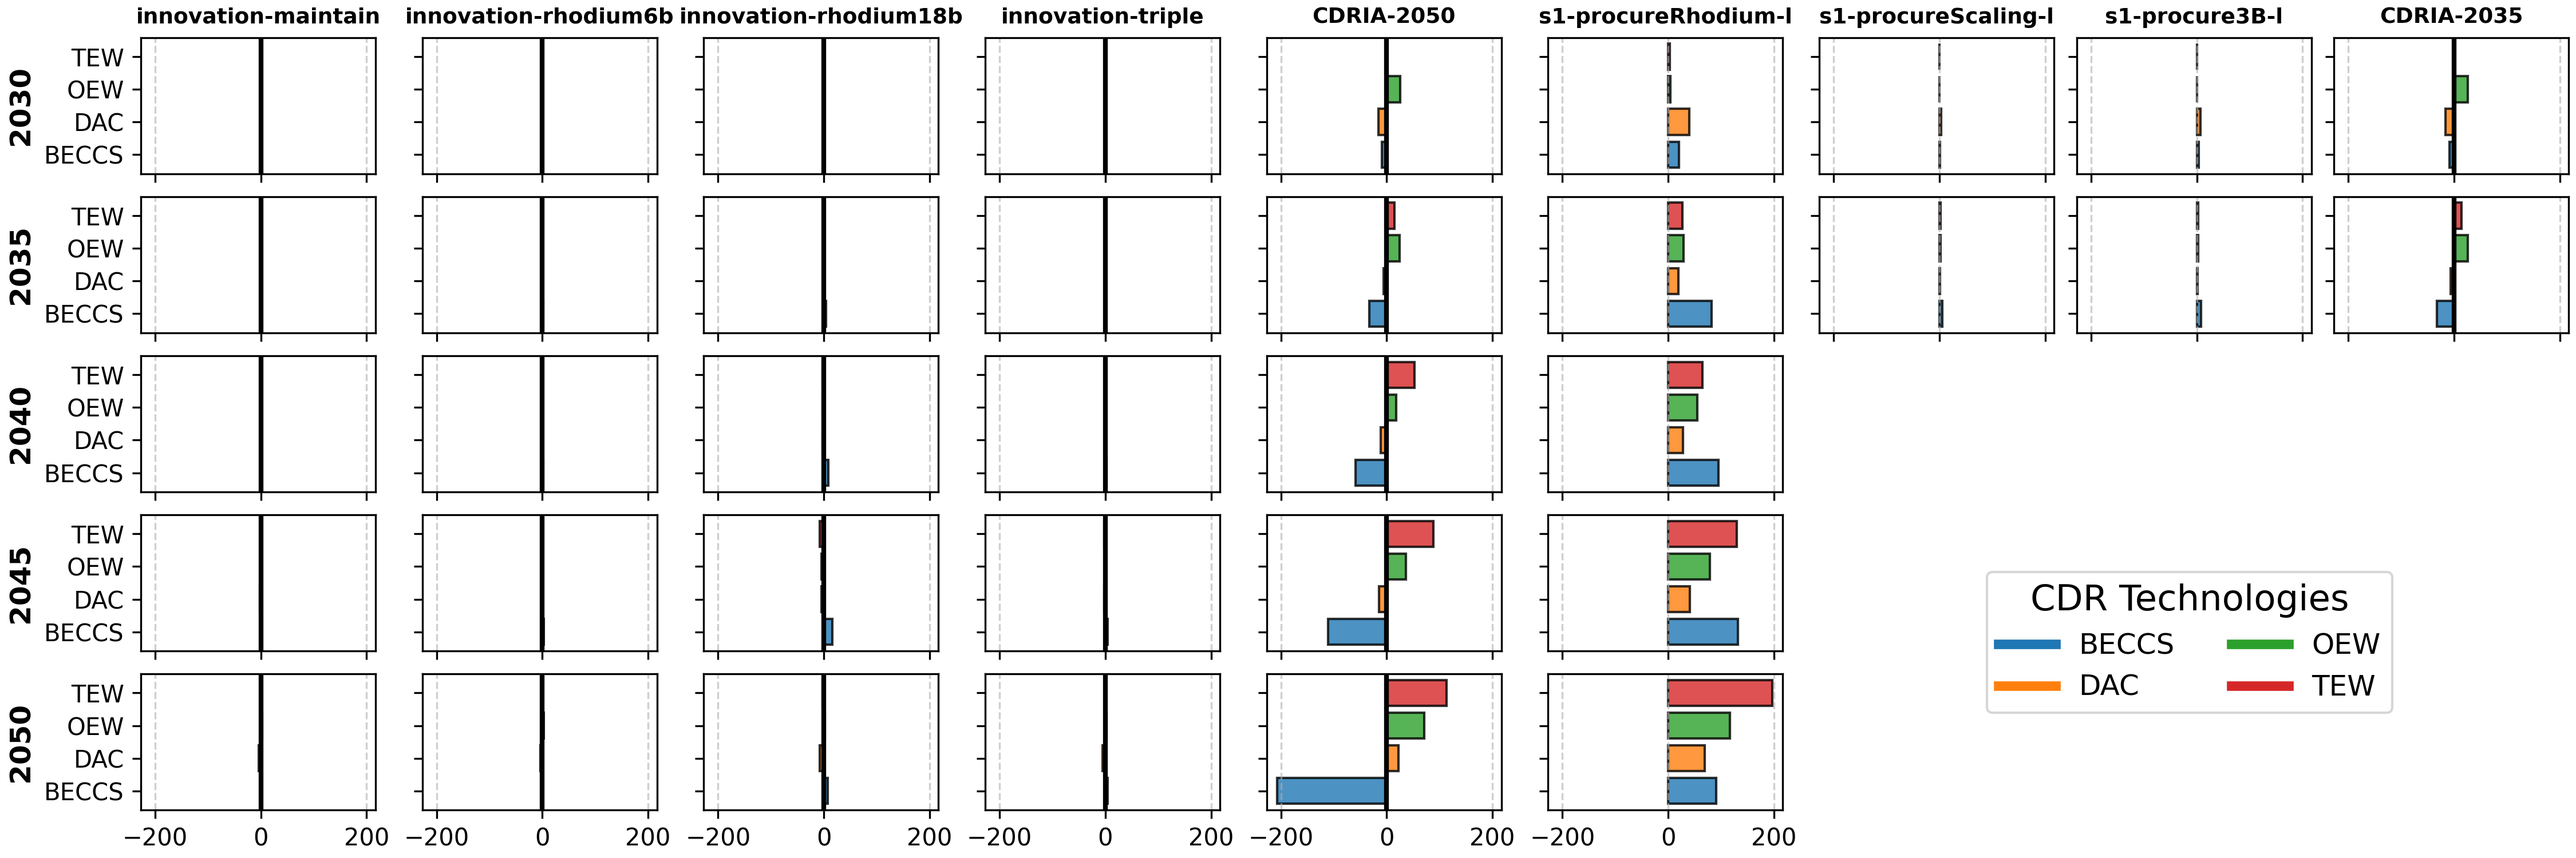
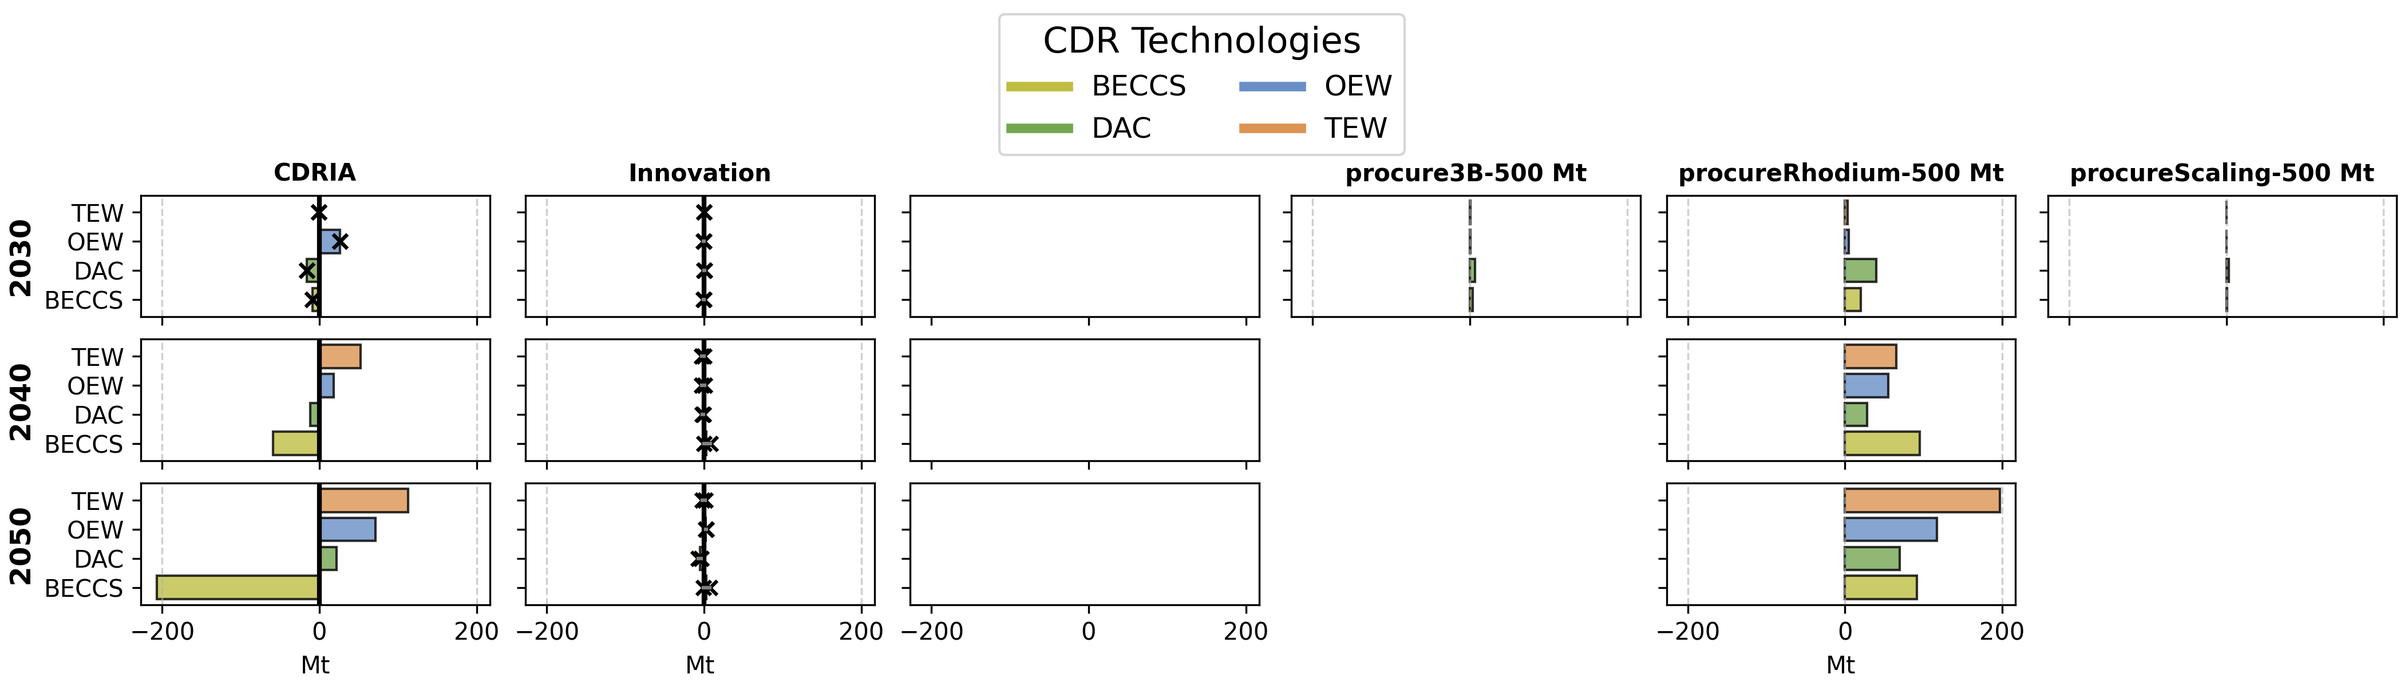
update figure 3 plots

diff --git a/supplementary_figures.py b/supplementary_figures.py
@@ -7,6 +7,7 @@ import numpy as np
 import matplotlib.pyplot as plt
 from matplotlib.lines import Line2D
 import matplotlib.gridspec as gridspec
+from scipy import stats
 
 
 def main(config_fname, reference_year):
@@ -17,8 +18,8 @@ def main(config_fname, reference_year):
     config_fname = config_fname.replace("_", "/")
     os.makedirs("./data/data_analysis/images/" + config_fname + "/", exist_ok=True)
     # many methods are commented out, but to run them just uncomment and run
-    marginal_supply()
-    # tech_neutrality()
+    # marginal_supply()
+    tech_neutrality()
     # compare_policy_costs("CDRIA-2035_high", "45Q-2040_high")
     # CAGR(config_fname, "2050")
     # land_allocation(config_fname, "2050")
@@ -98,7 +99,8 @@ def npv_breakdown():
     gs = gridspec.GridSpec(n_rows, n_cols, height_ratios=row_height_ratios)
 
     # set some values for the plotting
-    cost_categories = ['Deadweight Loss', 'CDR Market', 'Subsidy', 'Procurement Costs', 'Investment In R&D']  # CDR['cost_type'].unique()
+    cost_categories = ['Deadweight Loss', 'CDR Market', 'Subsidy', 'Procurement Costs',
+                       'Investment In R&D']  # CDR['cost_type'].unique()
     main_ax = None  # Placeholder to hold the first axis for sharing
     colors = ["#0047BB", "#00B5E2", "#c22a90", "#00AE8D", "#8AB7E9"]
 
@@ -283,8 +285,9 @@ def marginal_supply():
         ax.axhline(0, color='black', linewidth=1)
         ax.set_xticks(x_pos)
         # Rename all the comparisons to make for pretty labeling
-        valid_comps = [i.replace("s1-", "").replace("nzn", "100 Mt").replace("low", "500 Mt").replace("high", "1500 Mt").
-                       replace("excess", "2400 Mt").replace("4gt", "4100 Mt") for i in valid_comps]
+        valid_comps = [
+            i.replace("s1-", "").replace("nzn", "100 Mt").replace("low", "500 Mt").replace("high", "1500 Mt").
+            replace("excess", "2400 Mt").replace("4gt", "4100 Mt") for i in valid_comps]
         ax.set_xticklabels(valid_comps, rotation=30, ha='right', fontsize=11)
         ax.set_ylabel("Normalized Delta")
         ax.grid(axis='y', linestyle=':', alpha=0.6)
@@ -351,8 +354,8 @@ def tech_neutrality():
     # calculate spend and supply and which technology it is applied to
     for i in c.GCAMConstants.plotting_x:
         supply_sums = CDR.groupby(['scenario', "baseline"])[str(i) + "_supply"].transform(lambda x: x.abs().sum())
-        CDR[str(i)] = CDR[
-                          str(i) + "_supply"] / supply_sums  # what is the impact of policy on supply of CDR by technology compared to baseline?
+        CDR[str(i)] = CDR[str(i) + "_supply"] / supply_sums
+        # what is the impact of policy on supply of CDR by technology compared to baseline?
 
     # mask data
     # no 2025 data
@@ -390,58 +393,116 @@ def tech_neutrality():
     CDR.loc[CDR['scenario'] == 's1-procure3B-l', '2050_supply'] = np.nan
     CDR.loc[CDR['scenario'] == 's1-procure3B-h', '2050_supply'] = np.nan
 
+    # group by policy type
+    # set new column as policy type
+    CI_data = pd.DataFrame()
+    CDR["%Label"] = CDR.apply(lambda row: "Procurement" if "procure" in row['scenario'] else "Innovation" if
+                    "innovation" in row['scenario'] else "CDRIA", axis=1)
+    CDR["MtLabel"] = CDR.apply(lambda row: row['scenario'] if "procure" in row['scenario'] else "Innovation" if
+    "innovation" in row['scenario'] else "CDRIA", axis=1) # do not want to aggregate procurement scenarios by Mt basis because CI would be nonsense
+    for bl in CDR["baseline"].unique():
+        baseline = CDR[CDR["baseline"] == bl]
+        for product in baseline["product"].unique():
+            technology = baseline[baseline["product"] == product].copy(
+                deep=True)  # filter data by baseline and product before doing CI work
+            for year in c.GCAMConstants.plotting_x:
+                percent = technology.groupby('%Label')[str(year)].apply(get_min_max).unstack().reset_index(names="Policy Type")
+                percent["baseline"] = bl
+                percent["product"] = product
+                percent["year"] = str(year)
+                MT = technology.groupby('MtLabel')[str(year) + "_supply"].apply(get_min_max).unstack().reset_index(names="Policy Type")
+                MT["baseline"] = bl
+                MT["product"] = product
+                MT["year"] = str(year)+"_supply"
+                CI_data = pd.concat([CI_data, percent, MT])
+
     # iterate through baselines and supply type
     for baseline in ["low", "high"]:
-        for suffix in ["", "_supply"]:
-            CDR_baseline = CDR[CDR["baseline"] == baseline]
-            years = ['2030' + suffix, '2035' + suffix, '2040' + suffix, '2045' + suffix, '2050' + suffix]
-            scenarios = CDR_baseline['scenario'].unique()
+        for suffix in ["_supply", ""]:
+            CDR_baseline = CI_data[CI_data["baseline"] == baseline]
+            years = ['2030' + suffix, '2040' + suffix, '2050' + suffix]
+            scenarios = CDR_baseline['Policy Type'].unique()
             products = CDR_baseline['product'].unique()
 
             # set up the grid: Rows = Scenarios, Columns = Years
-            fig, axes = plt.subplots(5, len(scenarios), figsize=(15, 5), sharey=True, sharex=True, layout="constrained")
+            if suffix == "":
+                fig, axes = plt.subplots(3, 3, figsize=(14, 4), sharey=True, sharex=True, layout="constrained")
+            else:
+                fig, axes = plt.subplots(3, len(scenarios), figsize=(14, 4), sharey=True, sharex=True, layout="constrained")
 
-            colors = ['#1f77b4', '#ff7f0e', '#2ca02c', '#d62728']
+            colors = ["#BFBE43", "#74A751", "#698FC6", "#DD9452"]
             for row_idx, scenario_name in enumerate(scenarios):
-                scenario_df = CDR_baseline[CDR_baseline['scenario'] == scenario_name]
+                if not (suffix == "" and "s1-" in scenario_name):
+                    if not (suffix=="_supply" and scenario_name == "Procurement"):
+                        scenario_df = CDR_baseline[CDR_baseline['Policy Type'] == scenario_name]
 
-                for col_idx, year in enumerate(years):
-                    ax = axes[col_idx, row_idx] if len(scenarios) > 1 else axes[col_idx]
+                        # reformat the table to have years as columns
+                        scenario_df_mean = scenario_df.pivot(index=['product', "baseline", "Policy Type"], columns='year', values='mean').reset_index()
+                        scenario_df_low = scenario_df.pivot(index=['product', "baseline", "Policy Type"], columns='year',
+                                                             values='minimum').reset_index()
+                        scenario_df_high = scenario_df.pivot(index=['product', "baseline", "Policy Type"], columns='year',
+                                                             values='maximum').reset_index()
 
-                    if not scenario_df[year].isna().all():
-                        # if there is data, extract it for plotting
-                        product_totals = scenario_df.groupby('product')[str(year)].sum().reindex(products).fillna(0)
-                        bars = ax.barh(products, product_totals, color=colors, edgecolor='black', alpha=0.8)
+                        for col_idx, year in enumerate(years):
+                            ax = axes[col_idx, row_idx] if len(scenarios) > 1 else axes[col_idx]
 
-                        v_line_pos = 0 if "innovation" in scenario_name or "CDRIA" in scenario_name else 0.25
-                        if suffix == "_supply":
-                            if v_line_pos == 0:  # don't put line on procurement graphs for Mt supply
-                                ax.axvline(x=v_line_pos, color='black', linestyle='-', linewidth=2,
-                                           label='Tech-Neutral Target')
-                        else:
-                            ax.axvline(x=v_line_pos, color='black', linestyle='-', linewidth=2,
-                                       label='Tech-Neutral Target')
+                            if not scenario_df_mean[year].isna().all():
+                                # if there is data, extract it for plotting
+                                product_totals = scenario_df_mean.groupby('product')[str(year)].sum().reindex(products)
+                                minimum = scenario_df_low.groupby('product')[str(year)].sum(min_count=1).reindex(products).dropna()
+                                maximum = scenario_df_high.groupby('product')[str(year)].sum(min_count=1).reindex(products).dropna()
+                                bars = ax.barh(products, product_totals, color=colors, edgecolor='black', alpha=0.8)
+                                scatter_low = ax.scatter(minimum, minimum.index.tolist(), color='black', zorder=3, marker="x")
+                                scatter_high = ax.scatter(maximum, maximum.index.tolist(), color='black', zorder=3, marker="x")
+                                for i in minimum.index.tolist():  # draw a line that connects
+                                    ax.plot([minimum[i], maximum[i]], [i, i], zorder=4, color="grey")
 
-                        # label only certain subplots
-                        if row_idx == 0:
-                            if suffix == "_supply":
-                                year = year.split("_")[0]
-                            ax.set_ylabel(f"{year}", fontweight='bold', fontsize=12)
+                                v_line_pos = 0 if "Innovation" in scenario_name or "CDRIA" in scenario_name else 0.25
+                                if suffix == "_supply":
+                                    if v_line_pos == 0:  # don't put line on procurement graphs for Mt supply
+                                        ax.axvline(x=v_line_pos, color='black', linestyle='-', linewidth=2,
+                                                   label='Tech-Neutral Target')
+                                else:
+                                    ax.axvline(x=v_line_pos, color='black', linestyle='-', linewidth=2,
+                                               label='Tech-Neutral Target')
 
-                        if col_idx == 0:
-                            ax.set_title(f"{scenario_name}", fontsize=9, fontweight='bold')
+                                # label only certain subplots
+                                if row_idx == 0:
+                                    if suffix == "_supply":
+                                        year = year.split("_")[0]
+                                    ax.set_ylabel(f"{year}", fontweight='bold', fontsize=12)
 
-                        ax.grid(axis='x', linestyle='--', alpha=0.6)
-                    else:
-                        # delete plot
-                        fig.delaxes(ax)
+                                if col_idx == 0:
+                                    ax.set_title(f"{scenario_name.replace('s1-','').replace('-l', '-500 Mt').replace('-h', '-1500 Mt')}", fontsize=10, fontweight='bold')
+
+                                if col_idx == 2:
+                                    if suffix == "_supply":
+                                        ax.set_xlabel("Mt")
+                                    else:
+                                        ax.set_xlabel("relative change")
+
+                                ax.grid(axis='x', linestyle='--', alpha=0.6)
+                            else:
+                                # delete plot
+                                fig.delaxes(ax)
 
             # add a single legend
             legend_elements = [Line2D([0], [0], color=colors[i], lw=4, label=p) for i, p in enumerate(products)]
-            fig.legend(handles=legend_elements, title="CDR Technologies", loc='upper center',
-                       bbox_to_anchor=(0.85, 0.35), ncol=2, title_fontsize=15, fontsize=12)
+            fig.legend(handles=legend_elements, title="CDR Technologies", loc='outside upper center',
+                       ncol=2, title_fontsize=15, fontsize=12)
             plt.savefig(f"data/data_analysis/images/CDR-Technologies-{baseline}-{suffix}.png", dpi=300)
             plt.show()
+
+
+def get_min_max(x):
+    # Calculate sample statistics
+    x = x.dropna()
+    if len(x) == 0:
+        return pd.Series({'mean': np.nan, 'minimum': np.nan, 'maximum': np.nan})
+    elif len(x) == 1:
+        return pd.Series({'mean': np.mean(x), 'minimum': np.nan, 'maximum': np.nan})
+    else:
+        return pd.Series({'mean': np.mean(x), 'minimum': np.min(x), 'maximum': np.max(x)})
 
 
 def CAGR(config_fname, reference_year):
